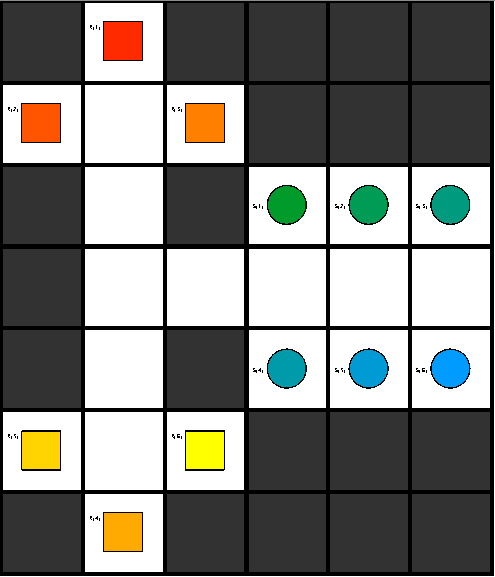
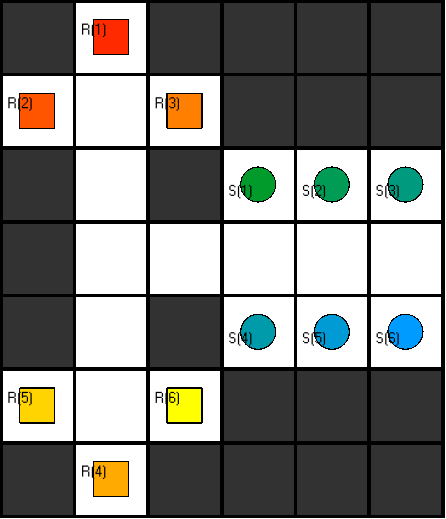
benchmark tool added

diff --git a/benchmark_tool/benchmark_tool.py b/benchmark_tool/benchmark_tool.py
@@ -1,0 +1,217 @@
+#import
+from tkinter import *
+from functionality import *
+import numpy as np
+
+#functions
+def displayGrid(canvas, tiles):
+	n_rows, n_cols = tiles.shape
+
+	#fill grid only into full screen size for maximum dimension of grid to maintain perfect squares
+	global grid_size
+	global margin
+	grid_size = canvas_width/n_cols if n_rows < n_cols else canvas_height/n_rows
+	margin = grid_size/10
+
+	for col in range(n_cols):
+		for row in range(n_rows):
+			tag = '{},{},'.format(col,row)
+			x0, y0, x1, y1 = col*grid_size,row*grid_size, (col+1)*grid_size,(row+1)*grid_size
+			#Nodes
+			canvas.create_rectangle(x0,y0,x1,y1, fill='#ccc', tags=tag+'n')
+			#Shelves
+			#canvas.create_oval(x0+margin,y0+margin,x1-margin,y1-margin, fill='#800', tags=tag)
+			#Labels
+			#canvas.create_text(x0+grid_size/2,y0+grid_size/2, text="R(1)", fill='#000', tags=tag)
+			#Robots
+			#canvas.create_rectangle(x0+margin,y0+margin,x1-margin,y1-margin, fill = '#808', tags=tag)
+
+def newGrid():
+	display.delete('all')
+	global tiles
+	tiles = newTiles(int(n_col_entry.get()),int(n_row_entry.get()))
+	displayGrid(display,tiles)
+
+def clickOnGrid(event,add):
+	if display.find_withtag(CURRENT):
+		#display.itemconfig(CURRENT, fill=color)
+		tag = display.gettags(CURRENT)[0]
+		tag_components = tag.split(',')
+		x = int(tag_components[0])
+		y = int(tag_components[1])
+		o = tag_components[2]
+		cell = '{},{},'.format(x,y)
+
+		global tiles
+		global grid_size
+		global margin
+		global selected_cell
+		x0, y0, x1, y1 = x*grid_size,y*grid_size, (x+1)*grid_size,(y+1)*grid_size
+		#is adding an object
+		if add:
+			if mode.get() == 'Nodes':
+				#Nodes
+				print('add node')
+				tiles[y][x] = 'n'
+				display.itemconfig(cell+'n', fill='#ccc')
+			elif mode.get() in ['Robots', 'Shelves']:
+				#Robots
+				selected_cell = cell
+				global popup
+				try:
+					popup.destroy()
+				except:
+					print('error')
+				open_popup()
+		else:
+			if o == 'n':
+				#Nodes
+				print('delete node')
+				tiles[y][x] = 'e'
+				display.delete(cell)
+				display.itemconfig(cell+'n', fill='#333')
+			else:
+				#Robots and Shelves
+				print('delete object')
+				tiles[y][x] = 'n'
+				display.delete(cell)
+		print(tiles)
+                
+def clickAdd(event):
+	clickOnGrid(event,True)
+
+def clickRemove(event):
+	clickOnGrid(event,False)
+
+def quit():
+	master.destroy()
+
+def save_instance():
+	global tiles
+	saveInstance(tiles, 'output')
+
+popup = 0
+def open_popup():
+	#pop up
+	########################################
+	def exit_popup():
+		addObject(int(robot_id_entry.get()),mode.get())
+		popup.destroy()
+		
+	global popup
+	popup = Tk()
+	popup.title('ID')
+	popup.geometry('200x100')
+	robot_id_label = Label(popup, text='Object ID: ')
+	robot_id_entry = Entry(popup)
+	robot_id_button = Button(popup, text='Confirm', command=exit_popup)
+	robot_id_label.grid(row=0,column=0)
+	robot_id_entry.grid(row=0,column=1)
+	robot_id_button.grid(row=1,column=0)
+	########################################
+
+def addObject(ID, m):
+	global tiles
+	global grid_size
+	global margin
+	global selected_cell
+	cell_components = selected_cell.split(',')
+	x = int(cell_components[0])
+	y = int(cell_components[1])
+	x0, y0, x1, y1 = x*grid_size,y*grid_size, (x+1)*grid_size,(y+1)*grid_size
+	if m == 'Robots':
+		print('add robot')
+		tiles[y][x] = 'r'+str(ID)
+		display.delete(selected_cell)
+		display.create_rectangle(x0+margin,y0+margin,x1-margin,y1-margin, fill = '#808', tags=selected_cell)
+		name = 'R({})'.format(ID)
+		display.create_text(x0+grid_size/2,y0+grid_size/2, text=name, fill='#000', tags=selected_cell)
+		display.itemconfig(selected_cell+'n', fill='#ccc')
+	elif m == 'Shelves':
+		#Shelves
+		tiles[y][x] = 's'+str(ID)
+		display.delete(selected_cell)
+		display.create_oval(x0+margin,y0+margin,x1-margin,y1-margin, fill='#800', tags=selected_cell)
+		name = 'S({})'.format(ID)
+		display.create_text(x0+grid_size/2,y0+grid_size/2, text=name, fill='#000', tags=selected_cell)
+		display.itemconfig(selected_cell+'n', fill='#ccc')
+		
+	
+
+#program
+#configuration
+
+#main window
+master = Tk()
+master.title('Benchmark Tool')
+width = 500
+height = 400
+master.geometry('%dx%d' % (width,height))
+
+#frame
+menu = Frame(master, width=width/2, height=height/2, bg='#ccc')
+menu.pack(side=TOP)
+
+canvas_width = width=width*0.8
+canvas_height = height=height*0.8
+
+#canvas
+display = Canvas(master, width=canvas_width, height=canvas_height)
+display.pack(side=BOTTOM)
+#bind an event when you click on the grid
+display.bind("<Button-1>", clickAdd)
+display.bind("<Button-3>", clickRemove)
+
+n_col_label = Label(menu, text='Width: ')
+n_row_label = Label(menu, text='Height: ')
+n_row_entry = Entry(menu)
+n_row_entry.insert(0, "3")
+n_col_entry = Entry(menu)
+n_col_entry.insert(0, "3")
+create_button = Button(menu, text='Create', command=newGrid)
+quit_button = Button(menu, text='QUIT', command=quit)
+
+n_row_label.grid(row=0, column=2)
+n_col_label.grid(row=0, column=0)
+n_row_entry.grid(row=0, column=3)
+n_col_entry.grid(row=0, column=1)
+create_button.grid(row=0, column=4)
+quit_button.grid(row=0, column=5)
+
+#dropdown menu
+OptionList = [
+"Nodes",
+"Robots",
+"Shelves"
+]
+
+mode = StringVar(menu)
+mode.set(OptionList[0])
+
+mode_options = OptionMenu(menu, mode, *OptionList)
+info = Label(menu, text='LEFT MOUSE CLICK to add\nRIGHT MOUSE CLICK to remove')
+mode_options.grid(row=1,column=0)
+info.grid(row=1, column=1)
+
+#menubar
+menubar = Menu(master)
+filemenu = Menu(menubar)
+filemenu.add_command(label="Open", command=loadInstance)
+filemenu.add_command(label="Save", command=save_instance)
+filemenu.add_command(label="Exit", command=quit)
+
+menubar.add_cascade(label="File", menu=filemenu)
+master.config(menu=menubar)
+
+#start
+#global variables
+tiles = []
+grid_size = 0
+margin = 0
+selected_cell = ''
+current_id = 0
+
+newGrid()
+
+
+mainloop()

diff --git a/benchmark_tool/functionality.py b/benchmark_tool/functionality.py
@@ -1,0 +1,96 @@
+import numpy as np
+
+def saveInstance(tiles,dir):
+	x_size = tiles.shape[1]
+	y_size = tiles.shape[0]
+	n_nodes = count(tiles,['n','r','s'])
+	n_robots = count(tiles,['r'])
+	n_shelves = count(tiles,['s'])
+	n_products = n_shelves
+	n_pruduct_units = n_products
+	n_orders = n_products
+
+	#header
+	output = ''
+	output += '%%%%%%%%%%%%%%%%%%%%%%%%%%%%%%%%%%%%%%%%%%%%%%%%%%%%%%%%%%%%\n'
+	output += '% Grid Size X:                      {}\n'.format(x_size)
+	output += '% Grid Size Y:                      {}\n'.format(y_size)
+	output += '% Number of Nodes:                  {}\n'.format(n_nodes)
+	output += '% Number of Highway Nodes:          {}\n'.format(0)
+	output += '% Number of Robots:                 {}\n'.format(n_robots)
+	output += '% Number of Shelves:                {}\n'.format(n_shelves)
+	output += '% Number of Picking Stations:       {}\n'.format(0)
+	output += '% Number of Products:               {}\n'.format(n_products)
+	output += '% Number of Product Units in Total: {}\n'.format(n_pruduct_units)
+	output += '% Number of Orders:                 {}\n'.format(n_orders)
+	output += '%%%%%%%%%%%%%%%%%%%%%%%%%%%%%%%%%%%%%%%%%%%%%%%%%%%%%%%%%%%%\n'
+	output += '\n'
+	output += '#program base.\n'
+	output += '\n'
+	output += '% init\n'
+
+	robots = []
+	shelves = []
+
+	#nodes
+	output += '\n% nodes\n'
+	node_counter = 1
+	for x in range(tiles.shape[0]):
+		for y in range(tiles.shape[1]):
+			if tiles[x][y][0] in ['n','r','s']:
+				output += 'init(object(node,{}),value(at,({},{}))).\n'.format(node_counter,y+1,x+1)
+				node_counter += 1
+				if tiles[x][y][0] == 'r':
+					robots.append([int(tiles[x][y][1:]),y+1,x+1])
+				if tiles[x][y][0] == 's':
+					shelves.append([int(tiles[x][y][1:]),y+1,x+1])
+
+	#robots
+	output += '\n% robots\n'
+	for robot in robots:
+		output += 'init(object(robot,{}),value(at,({},{}))).\n'.format(robot[0],robot[1],robot[2])
+
+	#shelves
+	output += '\n% shelves\n'
+	for shelf in shelves:
+		output += 'init(object(shelf,{}),value(at,({},{}))).\n'.format(shelf[0],shelf[1],shelf[2])
+
+	#products
+	output += '\n% products\n'
+	for i in range(len(shelves)):
+		output += 'init(object(product,{}),value(on,({},{}))).\n'.format(i+1,i+1,1)
+
+	#orders
+	output += '\n% orders\n'
+	for i in range(len(shelves)):
+		output += 'init(object(order,{}),value(line,({},{}))).\n'.format(i+1,i+1,1)
+
+	#saving
+	print('saving instance...')
+	name = 'x{}_y{}_n{}_r{}_s{}_ps{}_pr{}_u{}_o{}_N001'.format(x_size,y_size,n_nodes,n_robots,n_shelves,0,n_products,n_pruduct_units,n_orders)
+	path = dir+'/'+name+'.lp'
+	f = open(path, "w")
+	f.write(output)
+	f.close()
+	print('Successfully saved into: '+path)
+
+
+def loadInstance():
+	print('loading instance...')
+
+def count(tiles,o):
+	counter = 0
+	for x in range(tiles.shape[0]):
+		for y in range(tiles.shape[1]):
+			if tiles[x][y][0] in o:
+				counter += 1
+	return counter
+
+def newTiles(n_cols, n_rows):
+	tiles = np.ones(shape=(n_rows,n_cols)).astype(str)
+	print('hello')
+	print(tiles)
+	for x in range(n_rows):
+		for y in range(n_cols):
+			tiles[x][y] = 'n'
+	return tiles
